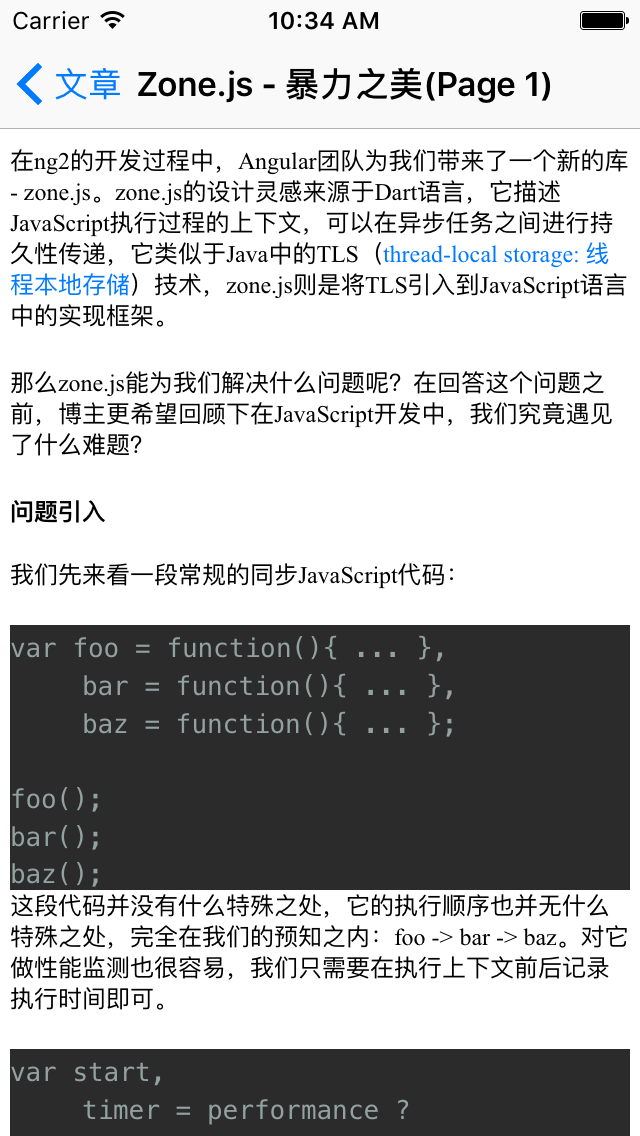
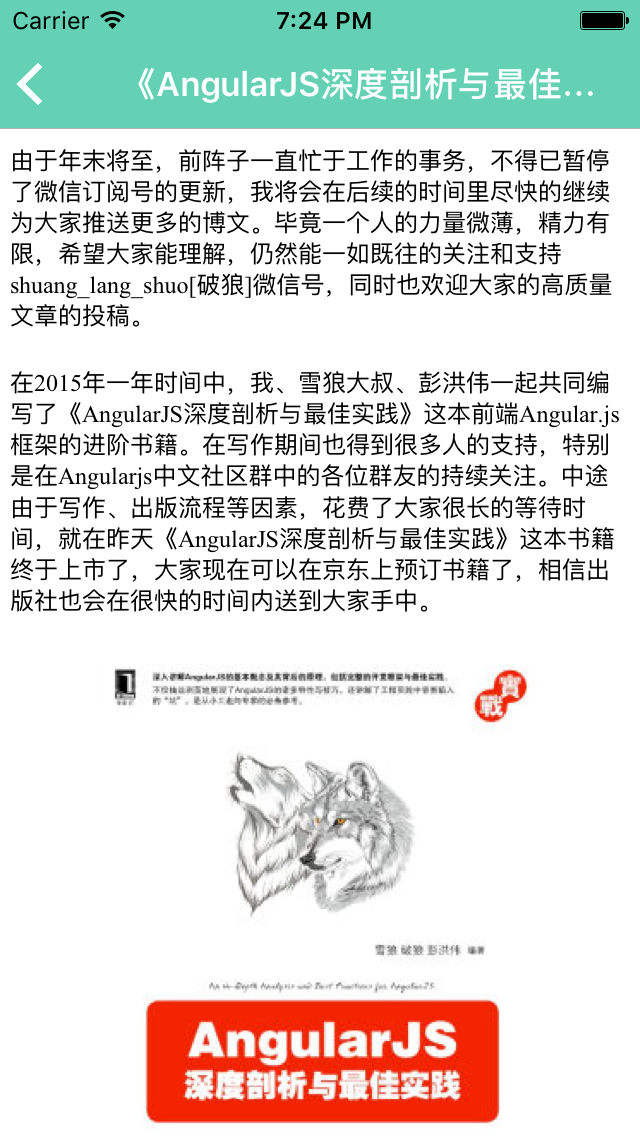
[feature]  style for app

diff --git a/app/blog/home/blog-home.component.html b/app/blog/home/blog-home.component.html
@@ -1,6 +1,6 @@
-<ActionBar [title]="currentTab.title">
+<ActionBar [title]="currentTab.title" backgroundColor="#4acaa8" color="#fff">
 </ActionBar>
-<TabView (selectedIndexChanged)="onSelectedIndexChanged($event)">
+<TabView (selectedIndexChanged)="onSelectedIndexChanged($event)" selectedColor="#fff" tabsBackgroundColor="#4acaa8">
     <StackLayout *tabItem="tabs[0]">
         <article-list (articleClicked)="gotoPage($event)"></article-list>
     </StackLayout>

diff --git a/app/app.scss b/app/app.scss
@@ -9,7 +9,7 @@ For example, the following CSS rule changes the font size of all UI
 components that have the btn class name.
 */
 .btn {
-    font-size: 18;
+  font-size: 18;
 }
 
 /*
@@ -20,4 +20,3 @@ refer to http://docs.nativescript.org/ui/theme.
 @import 'nativescript-theme-core/css/core.light.css';
 
 /* defaults and headings */
-

diff --git a/app/blog/article-detail/article-detail.component.html b/app/blog/article-detail/article-detail.component.html
@@ -1,4 +1,4 @@
-<ActionBar [title]="article?.title">
+<ActionBar [title]="article?.title" backgroundColor="#4acaa8" color="#fff">
 </ActionBar>
 
 <StackLayout>
